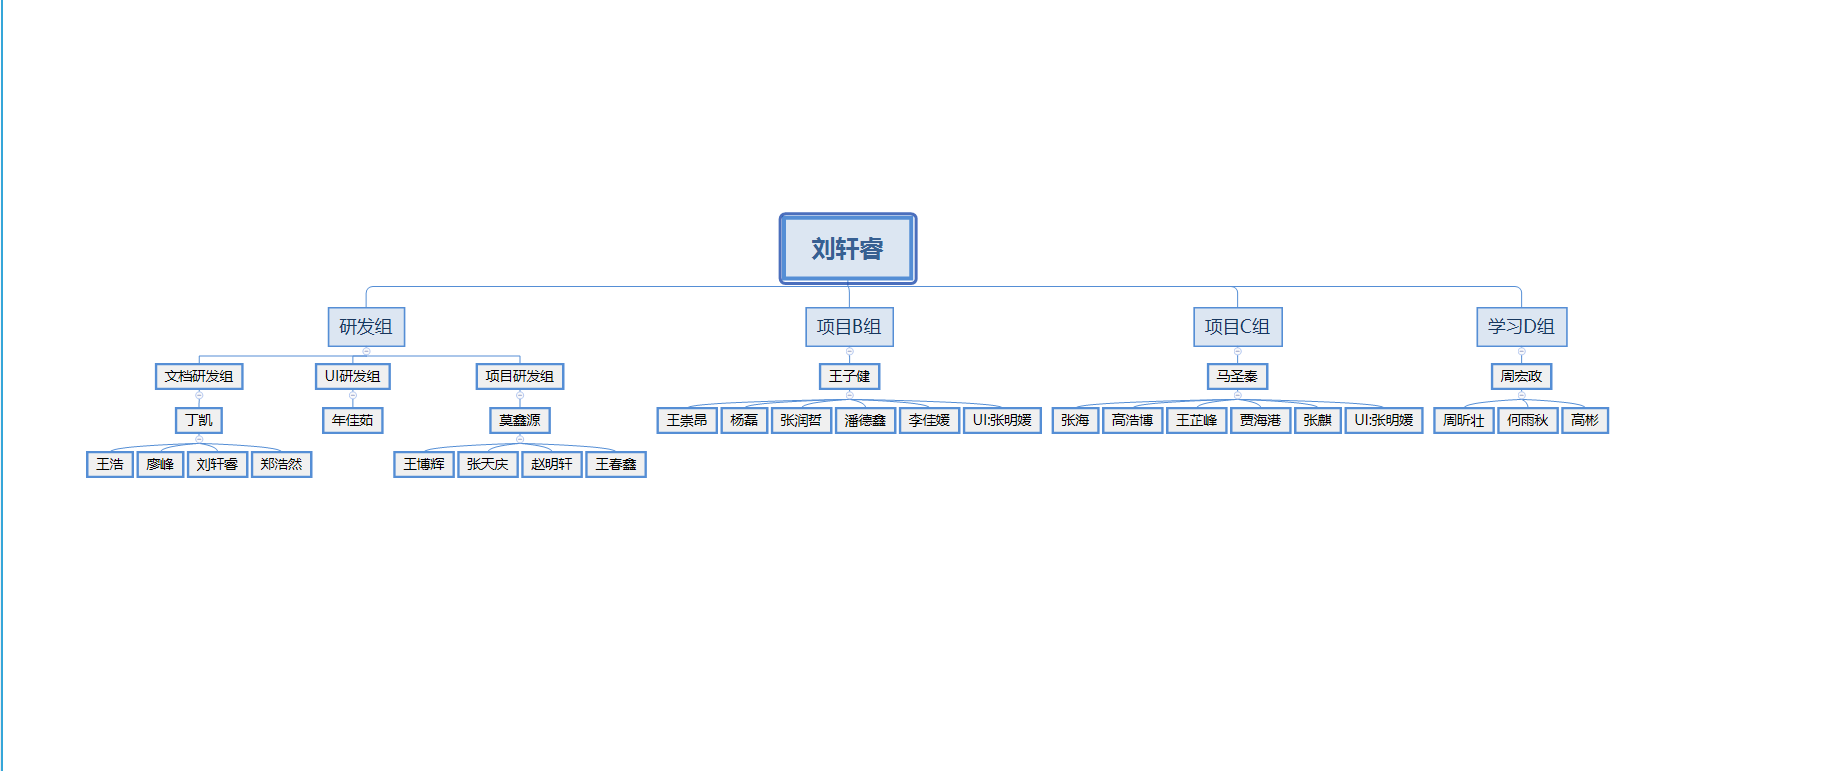
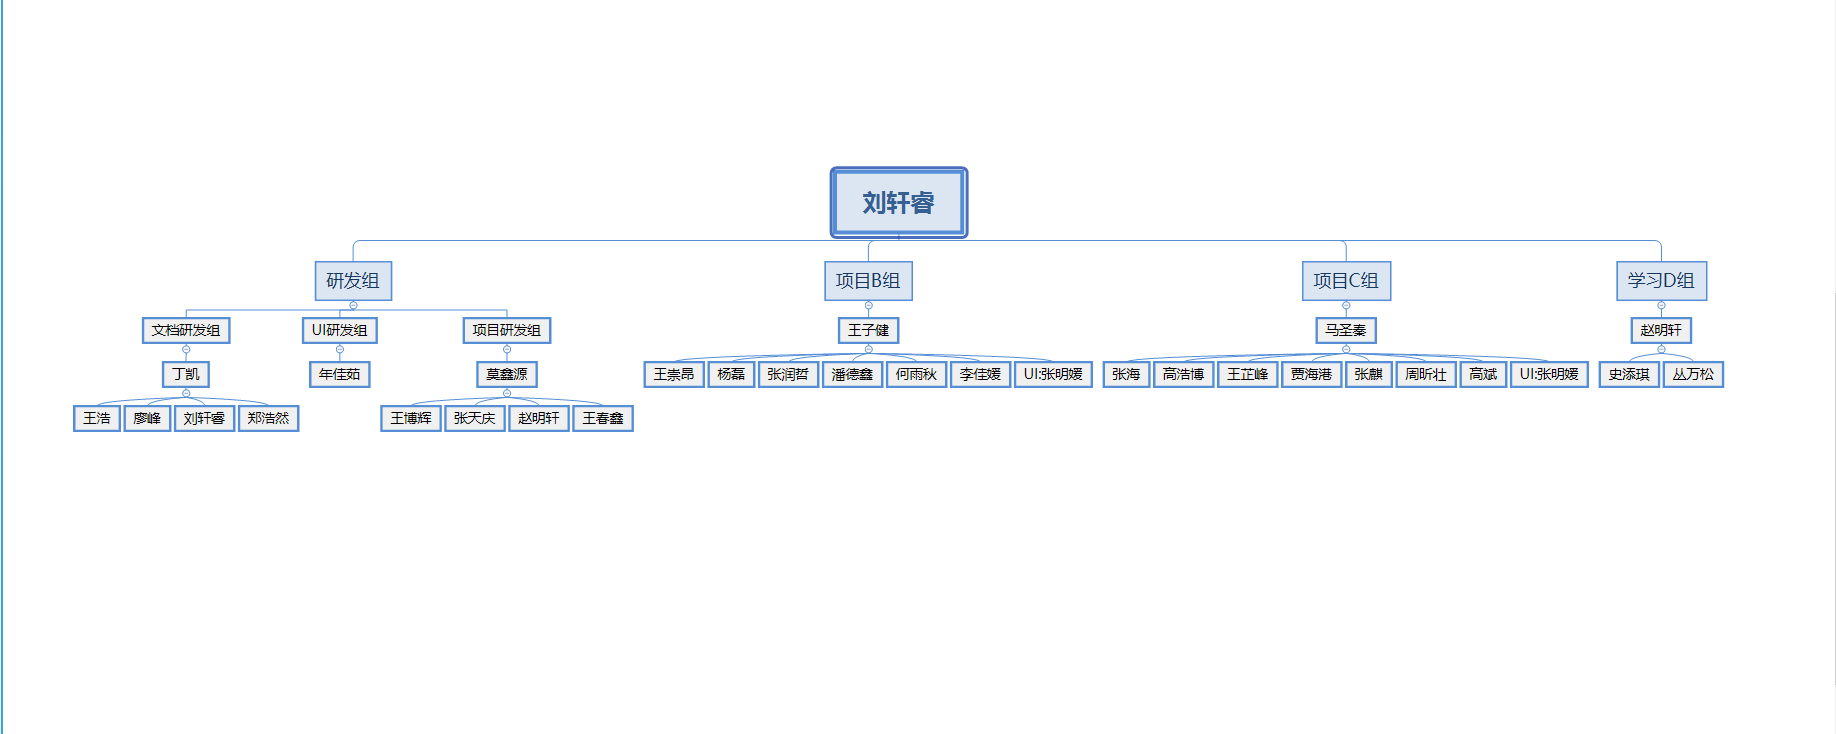
更新细则

Changed region(s): [[0.0312, 0.2098, 0.9349, 0.6294], [0.9973, 0.3896, 1.0, 0.9292]]

diff --git a/document/S-QSQ-XMB-项目部成员设备表单.md b/document/S-QSQ-XMB-项目部成员设备表单.md
@@ -8,4 +8,5 @@
 李佳媛 | 1  | 1  | 1 | 1 | 1  |	
 赵明轩 | 1  | 1  | 1 | 1 |   |	鼠标垫自带
 贾海港 | 1  | 1  | 1 | 1 |   |	鼠标垫自带
-统计   | 5 | 6	| 6	| 6 |   1   |	
+丛万松 | 1|1|1|1|1|
+统计   | 6 | 7	| 7	| 7 |   2   |	

diff --git a/document/S-QSQ-XMB-项目部人员名单.md b/document/S-QSQ-XMB-项目部人员名单.md
@@ -28,7 +28,9 @@ SW1005 | 24	|张麒	|
 sw1004 | 25 | 李佳媛 |
 gz1001 | 26	|何雨秋	|
 sw1005 | 27 | 高彬 |     
-sw1004 | 28 | 赵明轩 |     
+sw1004 | 28 | 赵明轩 |    
+sw1007 | 29| 史添琪|
+sw1008 |30 | 丛万松|
 
 
 

diff --git a/document/S-QSQ-XMB-水缴费报表.md b/document/S-QSQ-XMB-水缴费报表.md
@@ -8,5 +8,6 @@
 |2019/11/14|0|4张水票余0张|45|4张水票换4桶水|
 |2019/11/20|0|32|13|购买4桶水|
 
+11.25 收入140 余额 153
 
 
